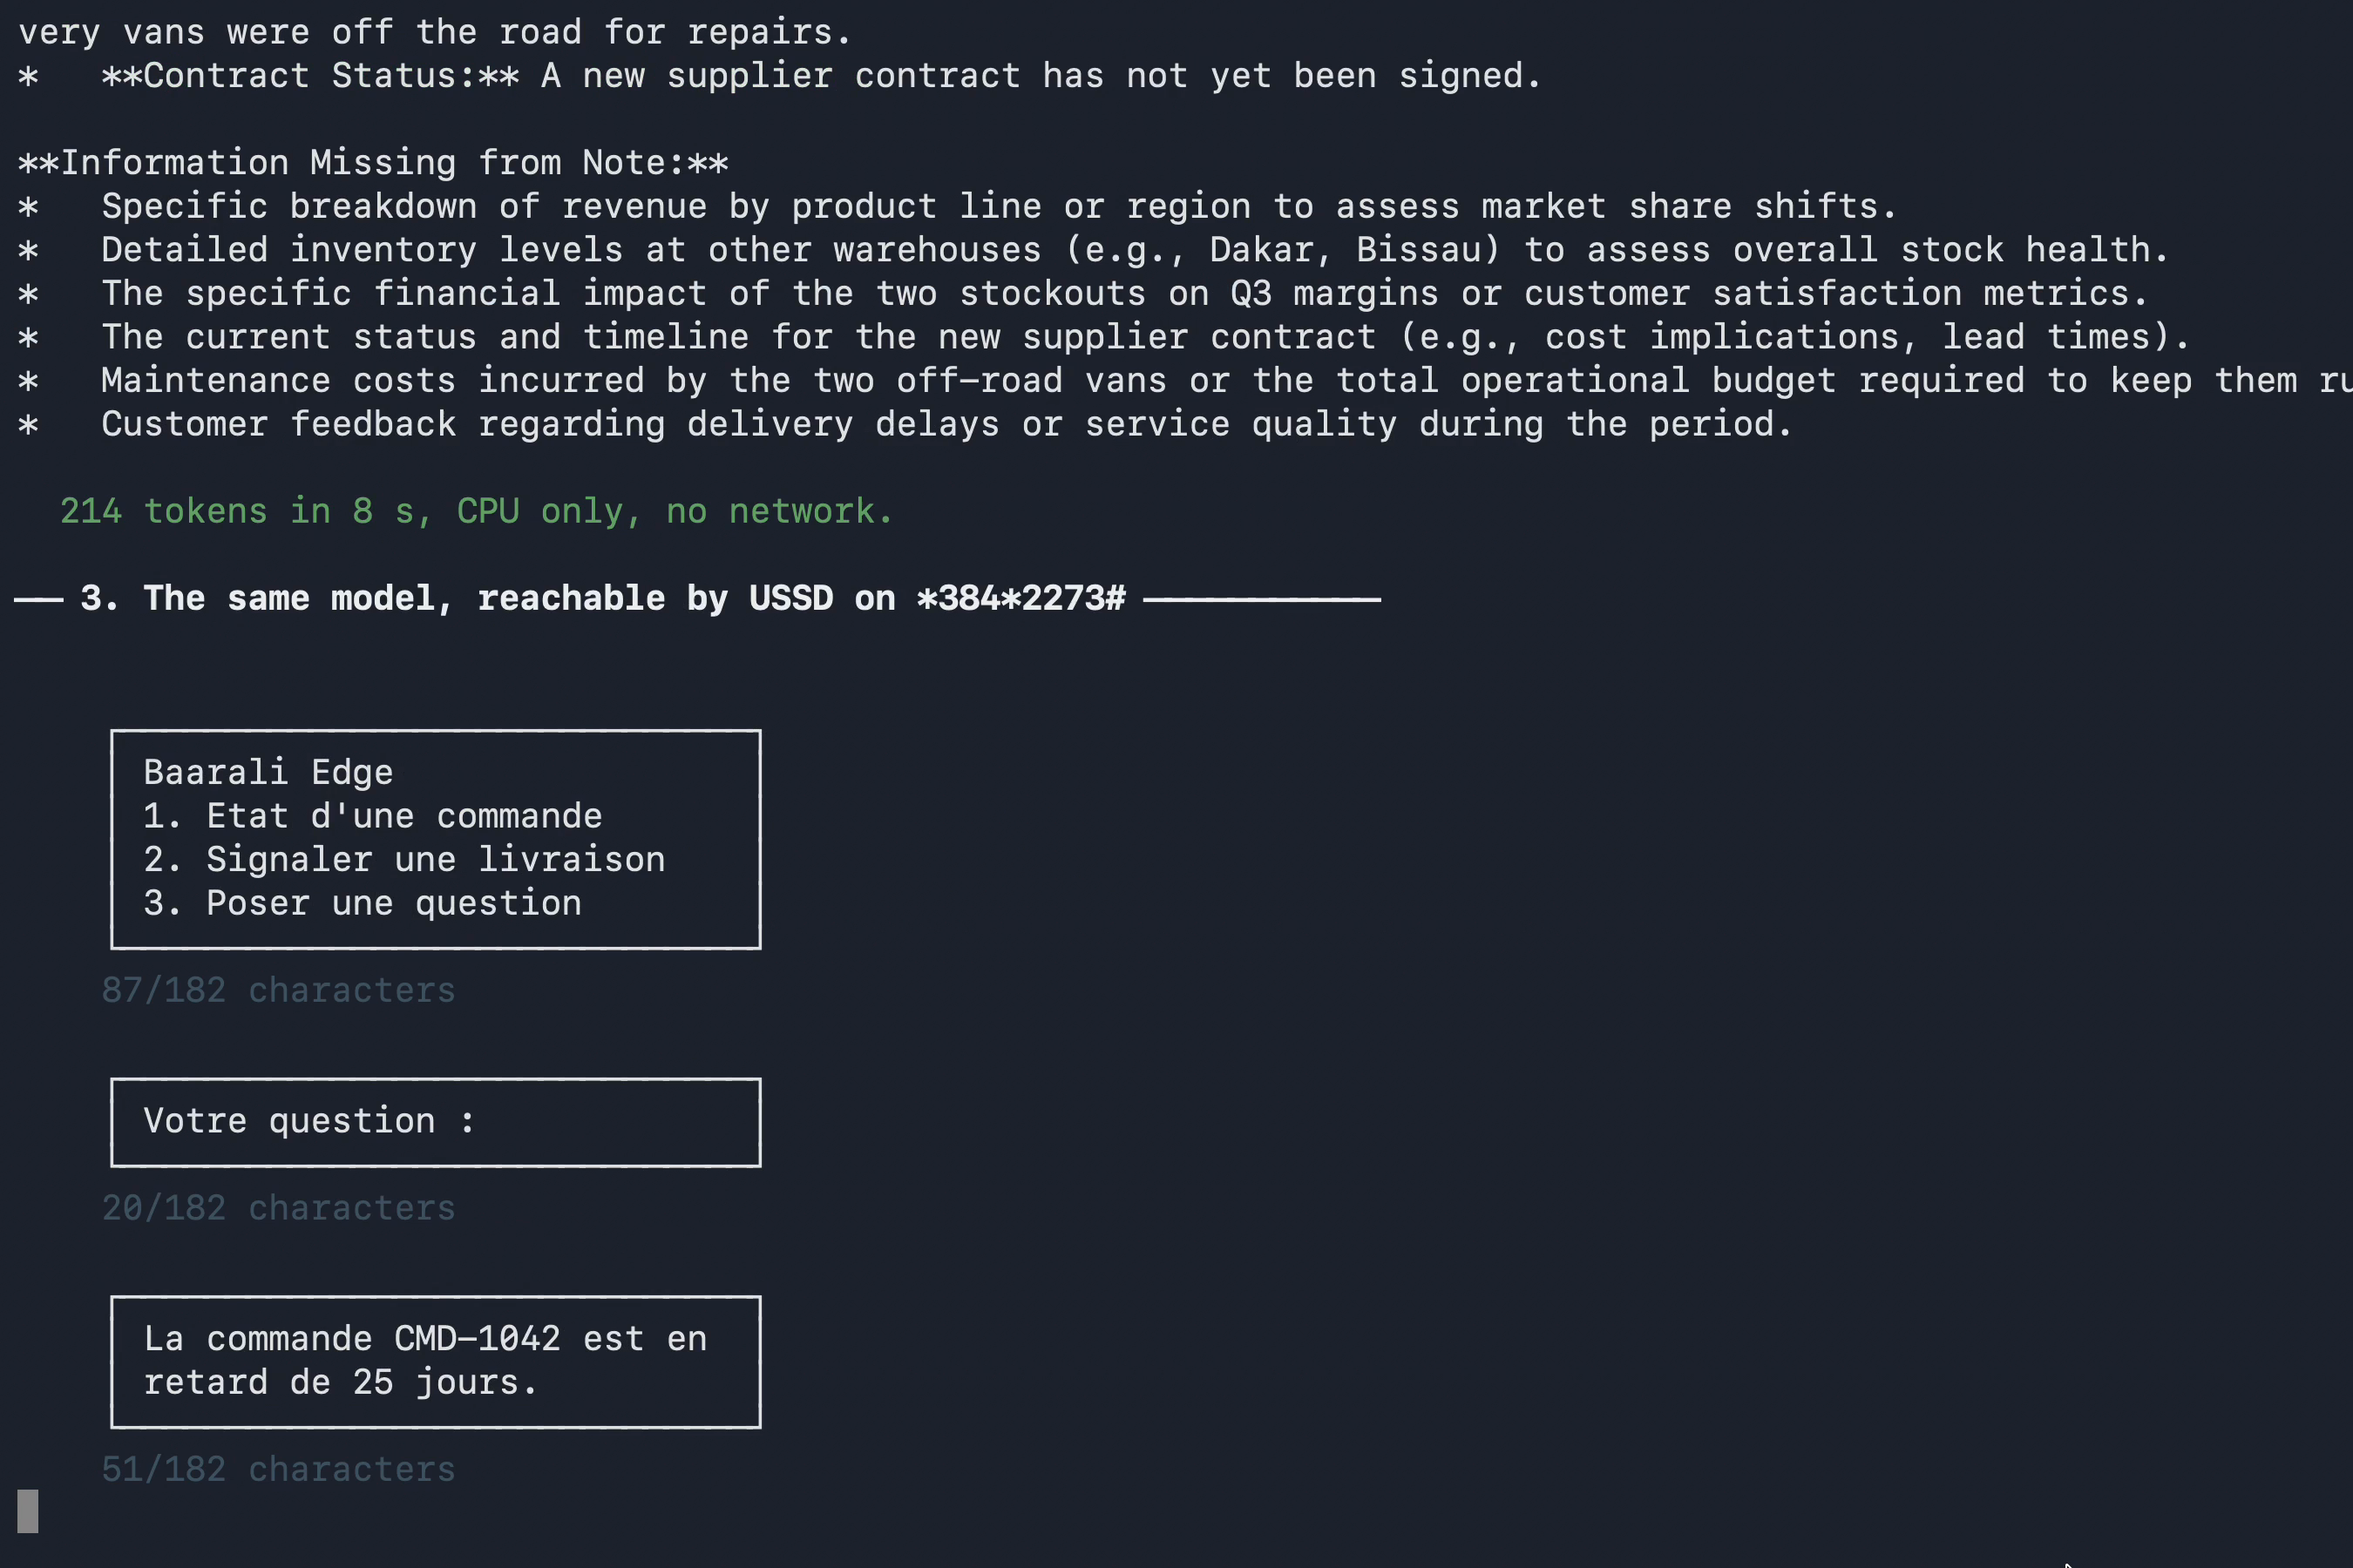
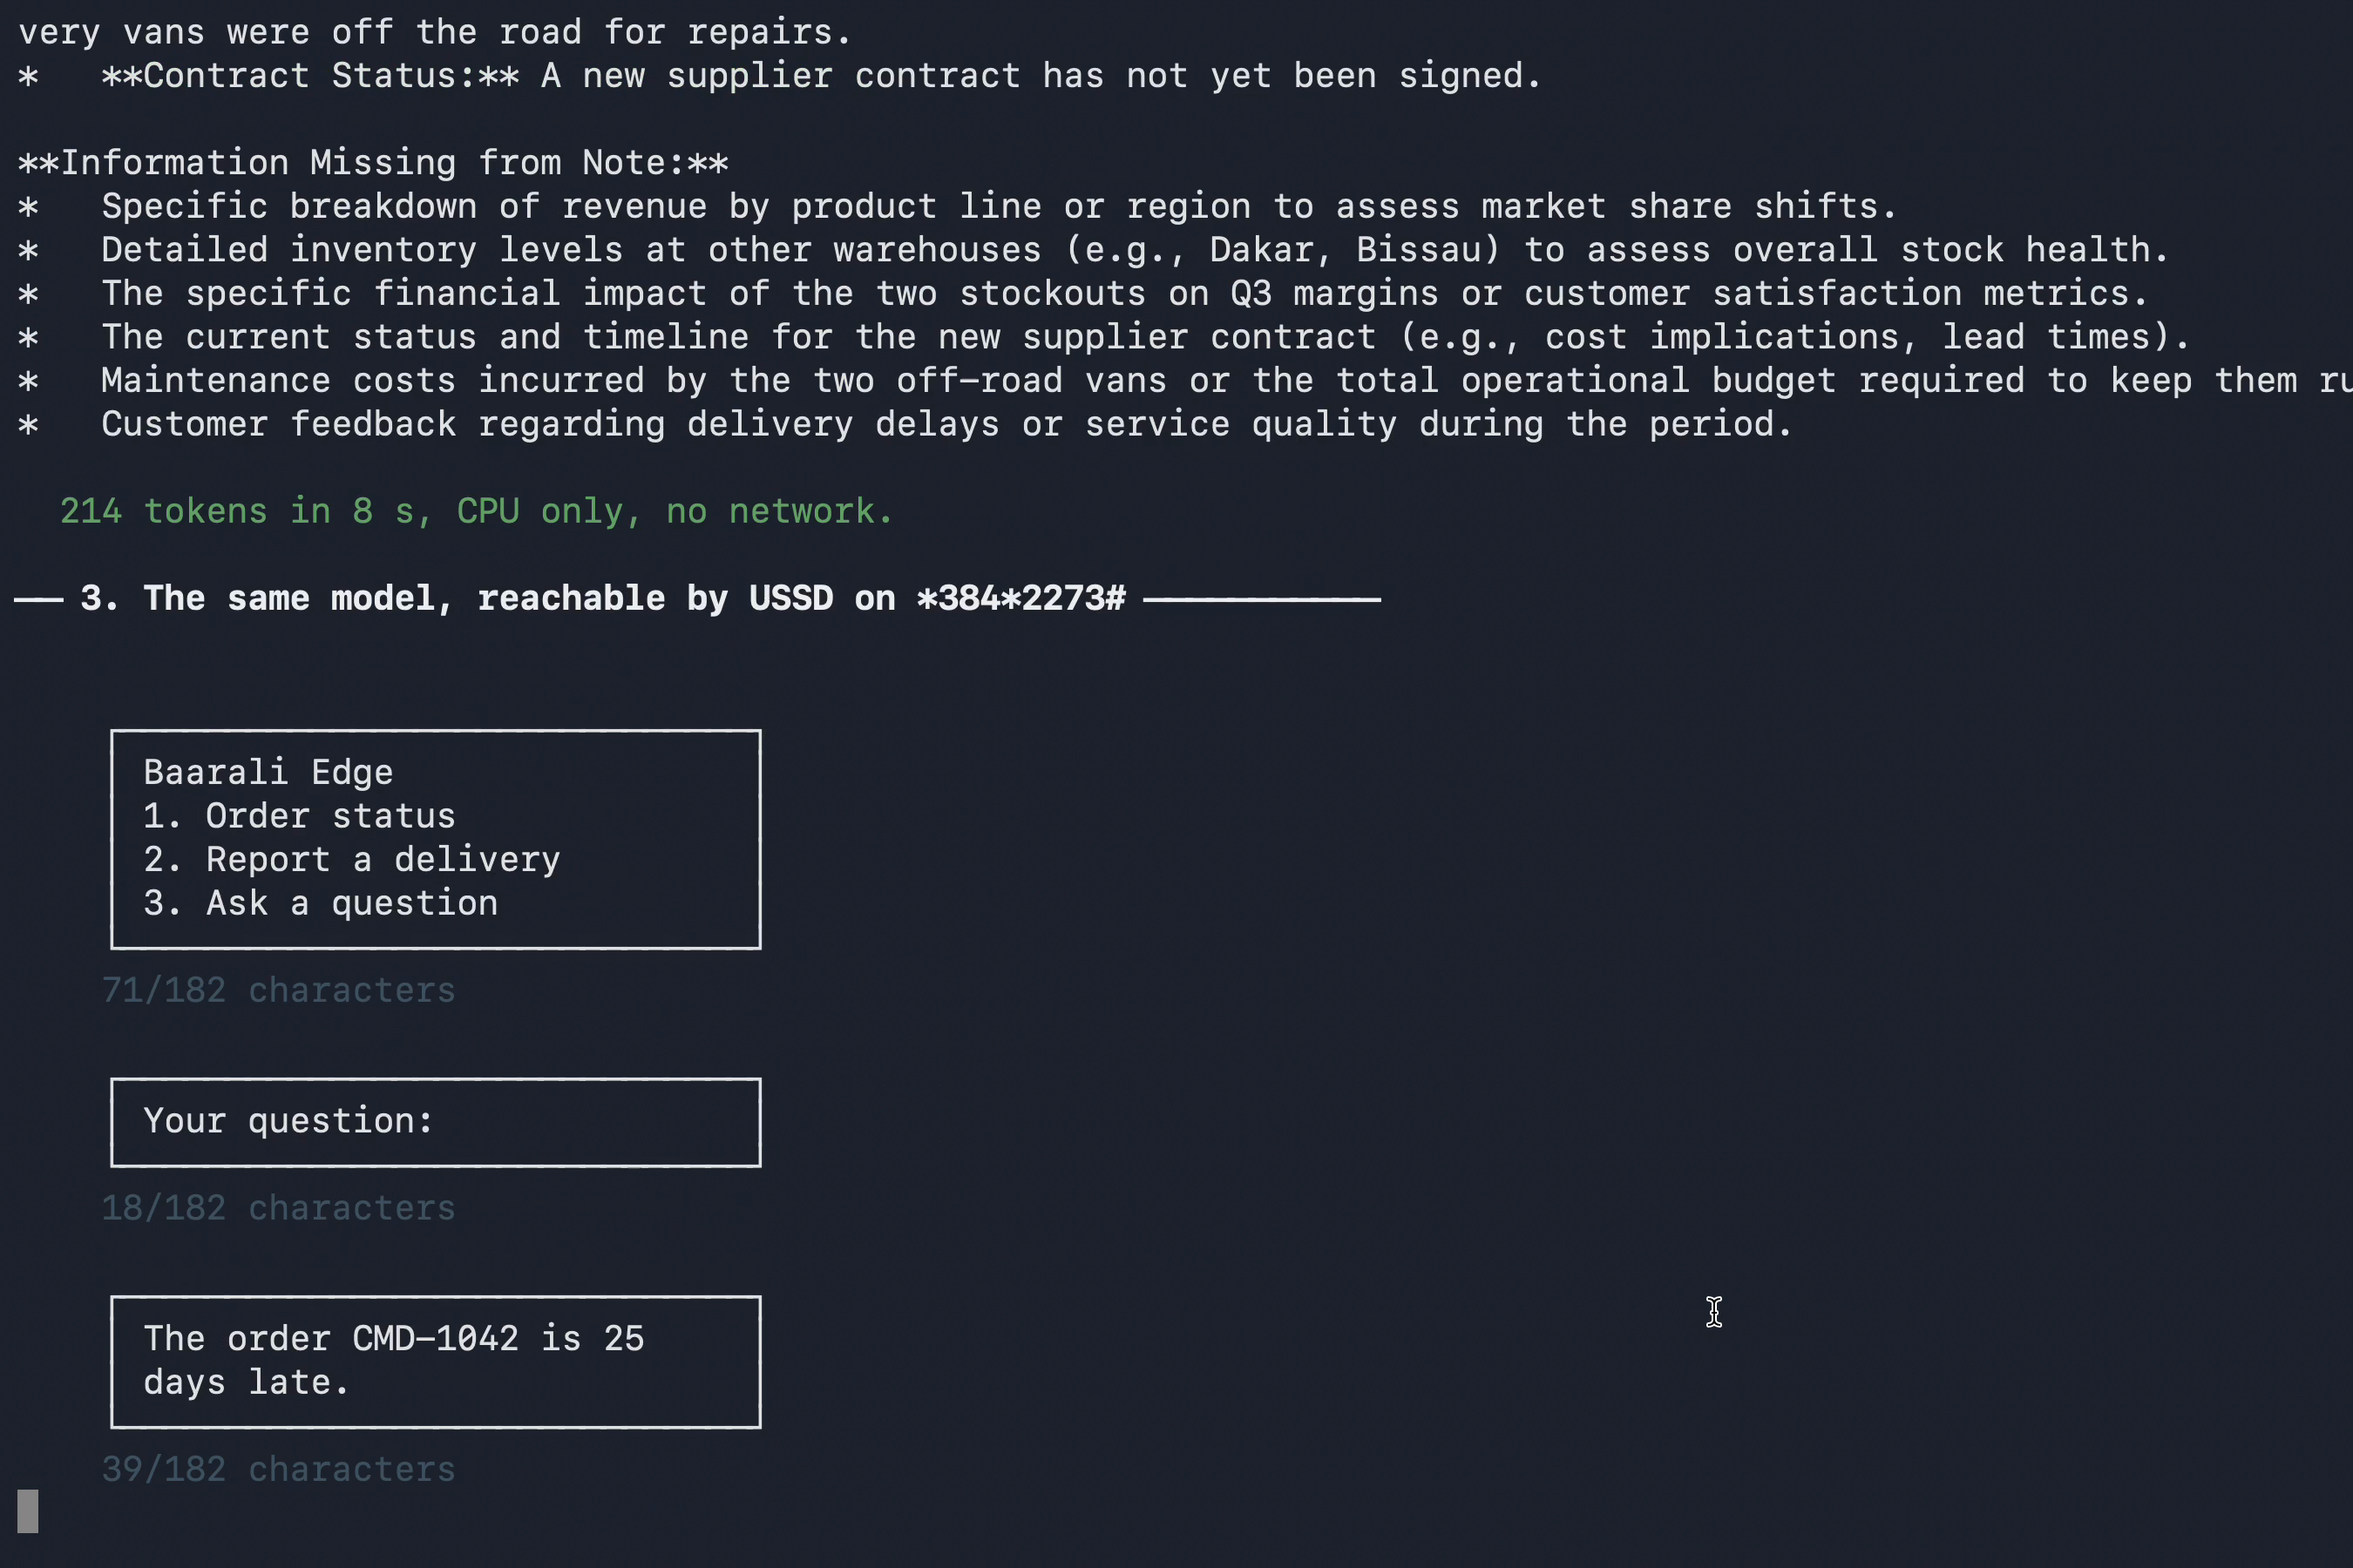
demo: tout l ecran en anglais, les documents restent en francais
Le melange de langues coutait de l attention au jury. L USSD devient bilingue
(BAARALI_USSD_LANG, francais par defaut : c est la langue de service reelle) et
la prise se filme en anglais.

Ce qui reste francais est le plus interessant : commandes.json. Le modele lit une
piece redigee en francais et repond en anglais a une question anglaise — le
bilinguisme demontre au lieu d etre revendique. Ajoute a la voix off.

Changed region(s): [[0.0933, 0.4978, 0.28, 0.5911], [0.0622, 0.84, 0.3111, 0.9022], [0.0311, 0.6222, 0.0622, 0.6533]]

diff --git a/demo/ussd.py b/demo/ussd.py
@@ -43,6 +43,7 @@ from __future__ import annotations
 
 import argparse
 import json
+import os
 import sys
 import textwrap
 from pathlib import Path
@@ -75,21 +76,72 @@ PENALITE = 1.05
 # On sépare donc : il raisonne librement, puis on condense. Deux appels valent
 # largement mieux qu'une mauvaise réponse — une session USSD tient largement le
 # temps supplémentaire.
-CONSIGNE_RAISONNER = (
-    "Tu es l'assistant interne d'une PME ivoirienne. Tu réponds à partir des "
-    "documents de l'entreprise fournis ci-dessous quand il y en a. Raisonne étape "
-    "par étape, puis termine par une ligne « Conclusion : » qui donne la réponse "
-    "et le montant exact en FCFA s'il y en a un. Réponds en français. Si la "
-    "question sort de ton domaine ou que tu n'as pas l'information, dis-le."
-)
-CONSIGNE_CONDENSER = (
-    "Réécris la conclusion suivante en UNE phrase de moins de 140 caractères, en "
-    "français, en conservant le chiffre exact s'il y en a un. Pas de formatage, "
-    "pas de liste, pas de préambule. Donne uniquement la phrase."
-)
+# Deux langues, un seul canal. Le français est la langue de service par défaut :
+# c'est celle des PME visées. L'anglais existe parce que `language_scope` déclare
+# les deux et qu'une démonstration destinée à un jury anglophone ne doit pas se
+# lire à travers une traduction.
+#
+# Les **documents de l'entreprise restent en français** dans les deux cas. C'est
+# volontaire : le modèle lit une commande rédigée en français et répond dans la
+# langue de la question. C'est la situation réelle d'une PME d'Abidjan dont les
+# pièces sont en français et dont le partenaire écrit en anglais.
+LANGUE = os.environ.get("BAARALI_USSD_LANG", "fr")
 
-# Les données de l'entreprise restent sur la machine : c'est tout l'argument.
-# Un fichier plat suffit à le montrer, et se lit sans base de données.
+_CONSIGNES = {
+    "fr": (
+        "Tu es l'assistant interne d'une PME ivoirienne. Tu réponds à partir des "
+        "documents de l'entreprise fournis ci-dessous quand il y en a. Raisonne étape "
+        "par étape, puis termine par une ligne « Conclusion : » qui donne la réponse "
+        "et le montant exact en FCFA s'il y en a un. Réponds en français. Si la "
+        "question sort de ton domaine ou que tu n'as pas l'information, dis-le.",
+        "Réécris la conclusion suivante en UNE phrase de moins de 140 caractères, en "
+        "français, en conservant le chiffre exact s'il y en a un. Pas de formatage, "
+        "pas de liste, pas de préambule. Donne uniquement la phrase.",
+    ),
+    "en": (
+        "You are the in-house assistant of an Ivorian SME. Answer from the company "
+        "documents given below when there are any; they are written in French. "
+        "Reason step by step, then end with a line starting \"Conclusion:\" giving the "
+        "answer and the exact amount in FCFA if there is one. Answer in English. If "
+        "the question is outside your scope or you lack the information, say so.",
+        "Rewrite the following conclusion as ONE sentence under 140 characters, in "
+        "English, keeping the exact figure if there is one. No formatting, no list, "
+        "no preamble. Give the sentence only.",
+    ),
+}
+
+_ECRANS = {
+    "fr": {
+        "menu": "Baarali Edge\n1. Etat d'une commande\n2. Signaler une livraison\n3. Poser une question",
+        "num_commande": "Numero de commande :",
+        "introuvable": "Commande {ref} introuvable.",
+        "etat": "{client} — {montant} FCFA HT. Livraison prevue {echeance}. Statut : {statut}.",
+        "num_livree": "Numero de commande livree :",
+        "etats_menu": "1. Livree complete\n2. Livree partielle\n3. Refusee",
+        "etats": {"1": "complete", "2": "partielle", "3": "refusee"},
+        "livraison": "Livraison {ref} enregistree : {etat}. Signale par {tel}. Le bureau est informe.",
+        "question": "Votre question :",
+        "sans_reponse": "Pas de reponse.",
+        "invalide": "Choix invalide.",
+    },
+    "en": {
+        "menu": "Baarali Edge\n1. Order status\n2. Report a delivery\n3. Ask a question",
+        "num_commande": "Order number:",
+        "introuvable": "Order {ref} not found.",
+        "etat": "{client} — {montant} FCFA excl. tax. Due {echeance}. Status: {statut}.",
+        "num_livree": "Delivered order number:",
+        "etats_menu": "1. Delivered in full\n2. Partial delivery\n3. Refused",
+        "etats": {"1": "in full", "2": "partial", "3": "refused"},
+        "livraison": "Delivery {ref} recorded: {etat}. Reported by {tel}. The office is notified.",
+        "question": "Your question:",
+        "sans_reponse": "No answer.",
+        "invalide": "Invalid choice.",
+    },
+}
+
+CONSIGNE_RAISONNER, CONSIGNE_CONDENSER = _CONSIGNES[LANGUE]
+ECRANS = _ECRANS[LANGUE]
+
 COMMANDES = RACINE / "demo" / "commandes.json"
 
 
@@ -211,45 +263,36 @@ def repondre(
     etapes = text.split("*") if text else [""]
 
     if etapes == [""]:
-        return ecran(
-            "CON",
-            "Baarali Edge\n1. Etat d'une commande\n2. Signaler une livraison\n"
-            "3. Poser une question",
-        )
+        return ecran("CON", ECRANS["menu"])
 
     choix = etapes[0]
 
     if choix == "1":
         if len(etapes) == 1:
-            return ecran("CON", "Numero de commande :")
+            return ecran("CON", ECRANS["num_commande"])
         cmd = charger_commandes().get(etapes[1].strip().upper())
         if not cmd:
-            return ecran("END", f"Commande {etapes[1]} introuvable.")
-        return ecran(
-            "END",
-            f"{cmd['client']} — {cmd['montant_fcfa']} FCFA HT. "
-            f"Livraison prevue {cmd['echeance']}. Statut : {cmd['statut']}.",
-        )
+            return ecran("END", ECRANS["introuvable"].format(ref=etapes[1]))
+        return ecran("END", ECRANS["etat"].format(
+            client=cmd["client"], montant=cmd["montant_fcfa"],
+            echeance=cmd["echeance"], statut=cmd["statut"]))
 
     if choix == "2":
         if len(etapes) == 1:
-            return ecran("CON", "Numero de commande livree :")
+            return ecran("CON", ECRANS["num_livree"])
         if len(etapes) == 2:
-            return ecran("CON", "1. Livree complete\n2. Livree partielle\n3. Refusee")
-        etat = {"1": "complete", "2": "partielle", "3": "refusee"}.get(etapes[2], "?")
-        return ecran(
-            "END",
-            f"Livraison {etapes[1]} enregistree : {etat}. "
-            f"Signale par {phone_number}. Le bureau est informe.",
-        )
+            return ecran("CON", ECRANS["etats_menu"])
+        etat = ECRANS["etats"].get(etapes[2], "?")
+        return ecran("END", ECRANS["livraison"].format(
+            ref=etapes[1], etat=etat, tel=phone_number))
 
     if choix == "3":
         if len(etapes) == 1:
-            return ecran("CON", "Votre question :")
+            return ecran("CON", ECRANS["question"])
         question = "*".join(etapes[1:]).strip()
-        return ecran("END", assistant.repondre(question) or "Pas de reponse.")
+        return ecran("END", assistant.repondre(question) or ECRANS["sans_reponse"])
 
-    return ecran("END", "Choix invalide.")
+    return ecran("END", ECRANS["invalide"])
 
 
 # --------------------------------------------------------------------------

diff --git a/demo/tournage.py b/demo/tournage.py
@@ -23,12 +23,15 @@ Ce qui est prouvé, acte par acte :
   4. **La localité**  les documents lus sont sur le disque, et les chiffres du
                       profileur officiel sortent de `bench/raw/`.
 
-Deux langues à l'écran, et ce n'est pas une négligence. **L'habillage est en
-anglais** — titres, commentaires, libellés : c'est la voix du présentateur, et
-le jury lit l'anglais comme le reste du dépôt. **Le produit reste dans sa
-langue** : la session USSD de l'acte 3 se joue en français, parce qu'une PME
-d'Abidjan interroge en français et que le modèle lui répond en français depuis
-ses propres documents. Tout traduire effacerait justement ce qu'on démontre.
+**Tout ce qui s'affiche est en anglais**, comme le reste de ce que lira le jury.
+Un écran qu'il faut traduire en le lisant est un écran qui coûte de l'attention.
+
+Une seule chose reste en français, et c'est la plus intéressante : **les
+documents de l'entreprise**. `commandes.json` est rédigé en français, la
+question est posée en anglais, et le modèle répond en anglais à partir de la
+pièce française. C'est exactement la situation d'une PME d'Abidjan dont les
+documents sont en français et dont l'interlocuteur écrit en anglais — et ça
+démontre le bilinguisme au lieu de le revendiquer.
 
 Usage : .venv/bin/python demo/tournage.py [--repetition]
 
@@ -38,12 +41,18 @@ Wi-Fi. **Ne jamais filmer dans ce mode** — l'acte 1 perdrait son sens.
 from __future__ import annotations
 
 import json
+import os
 import pathlib
 import subprocess
 import sys
 import time
 
 sys.path.insert(0, str(pathlib.Path(__file__).resolve().parent))
+
+# Le canal USSD parle anglais **pour la caméra**, avant que `ussd` ne soit
+# importé — ses libellés sont figés au chargement. Le français reste la langue
+# de service par défaut du module ; ce qui change ici, c'est la langue du jury.
+os.environ.setdefault("BAARALI_USSD_LANG", "en")
 
 from ussd import (  # noqa: E402
     CODE_SERVICE,
@@ -118,7 +127,7 @@ def acte_modele(a: Assistant) -> None:
 
 def acte_ussd(a: Assistant) -> None:
     titre(3, f"The same model, reachable by USSD on {CODE_SERVICE}")
-    saisies = ["", "3", "De combien de jours la commande CMD-1042 est-elle en retard ?"]
+    saisies = ["", "3", "How many days late is order CMD-1042?"]
     texte = ""
     for i, saisie in enumerate(saisies):
         texte = saisie if not texte else f"{texte}*{saisie}"

diff --git a/demo/NARRATION.md b/demo/NARRATION.md
@@ -1,11 +1,11 @@
 # Voix off — texte à poser sur la prise muette
 
-La prise brute (`bash demo/filmer.sh`) dure ~32 s et n'a pas de son. Ce texte se
-pose dessus au montage. **181 mots, soit ~72 s** à un débit posé de 150 mots par
+La prise brute (`bash demo/filmer.sh`) dure ~30 s et n'a pas de son. Ce texte se
+pose dessus au montage. **192 mots, soit ~77 s** à un débit posé de 150 mots par
 minute — sous le plafond de 2 minutes du règlement, qui dit *« a short video
 (max 2 minutes) »* : c'est un plafond, pas une durée à remplir.
 
-⚠ **La voix est plus longue que l'image** (72 s contre 32 s), et c'est voulu :
+⚠ **La voix est plus longue que l'image** (77 s contre 30 s), et c'est voulu :
 le règlement demande *« explaining your solution **and development journey** »*,
 or le parcours ne se filme pas. Au montage, tenir la dernière image pendant les
 segments 5 et 6, ou poser un carton noir avec le lien du dépôt.
@@ -33,10 +33,14 @@ ne les montrera jamais tout seul.
 > fibre box does not. So the assistant answers here — one of our two declared
 > prompts, generated now, on the CPU.
 
-### 3 — sur l'acte 3, la session USSD *(~10 s, 25 mots)*
+### 3 — sur l'acte 3, la session USSD *(~14 s, 36 mots)*
 
-> The same model, reachable by USSD from any phone. No data plan, no app, one
-> hundred and eighty-two characters per screen — the real limit.
+> The same model, reachable by USSD from any phone — no data plan, no app, one
+> hundred and eighty-two characters per screen. The order file it reads is
+> written in French; the answer comes back in English, on the same machine.
+
+*Ne pas sauter la dernière phrase : c'est la seule preuve visible du bilinguisme,
+et elle est à l'écran — le document est en français, la réponse en anglais.*
 
 ### 4 — sur l'acte 4, les fichiers locaux et les chiffres *(~14 s, 33 mots)*
 
